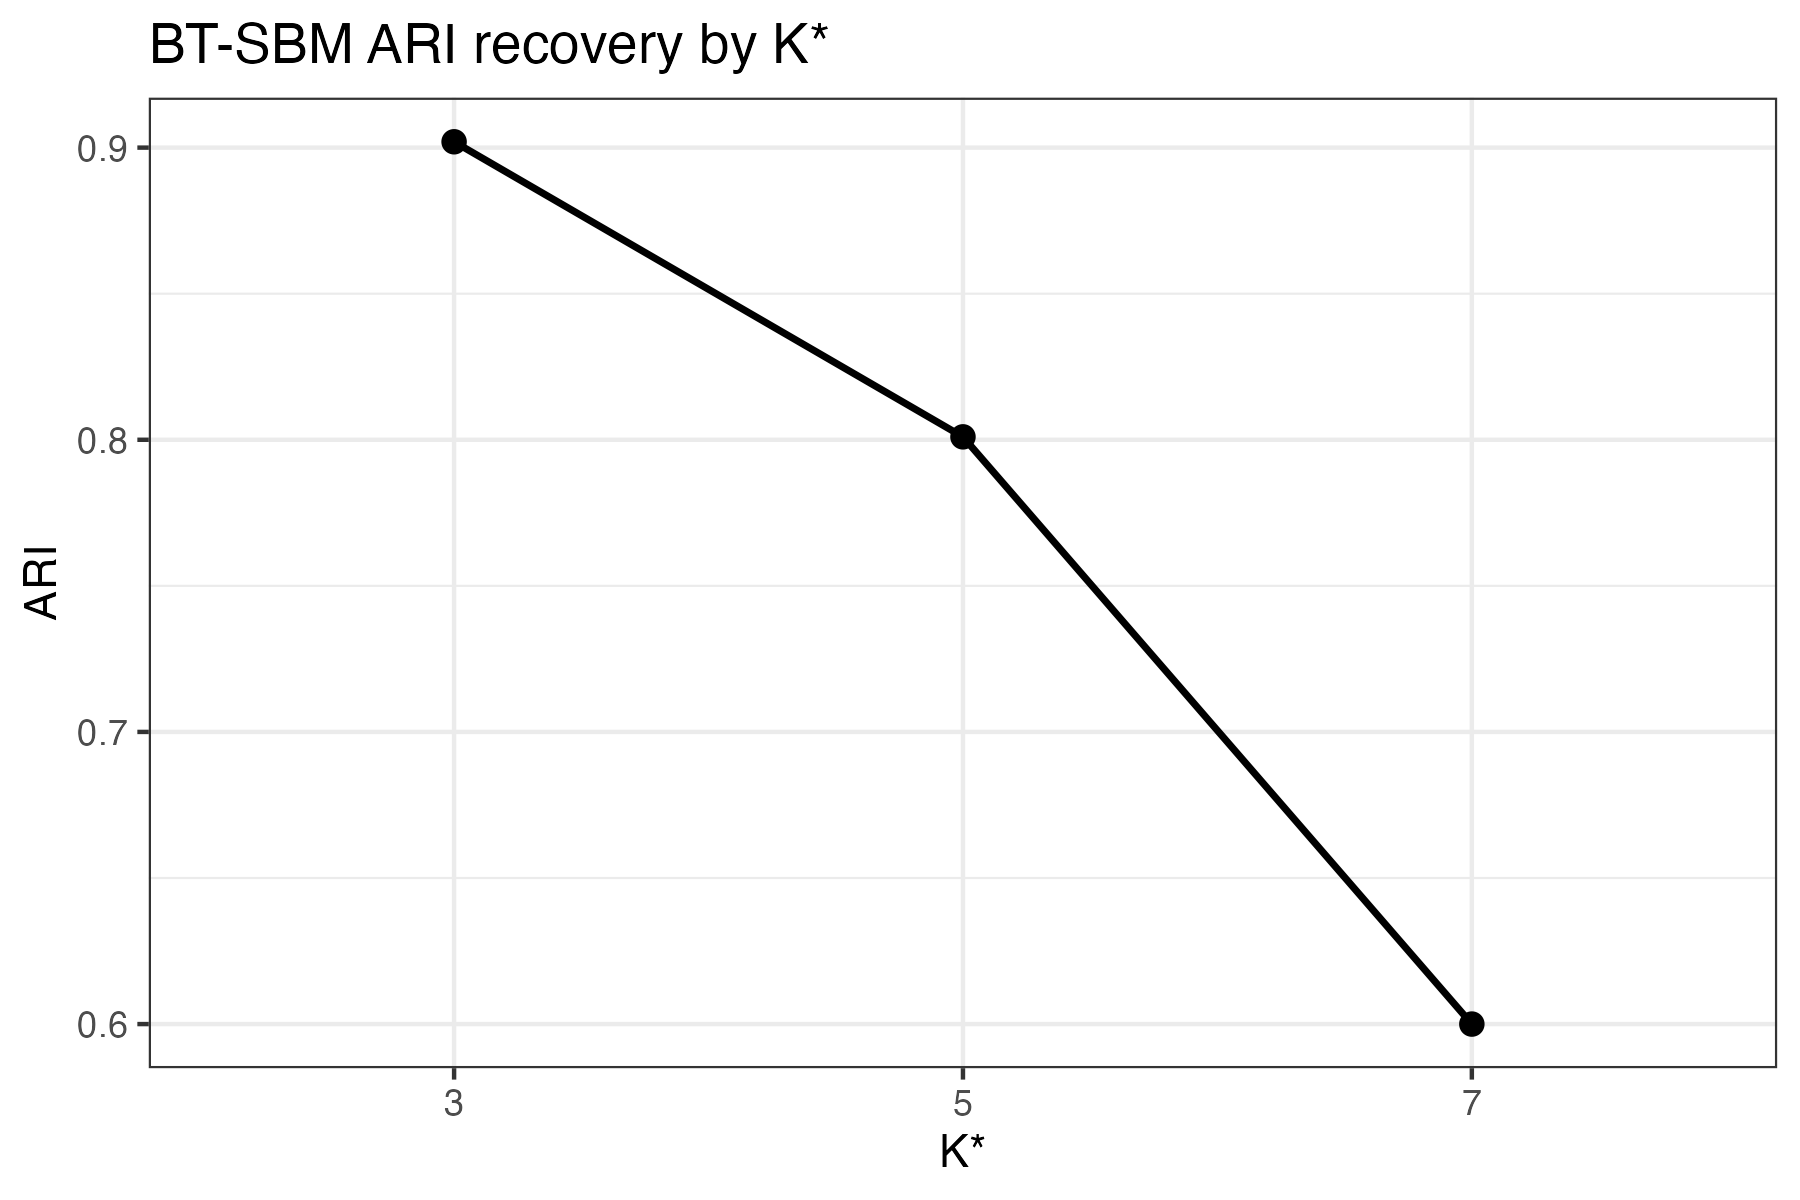
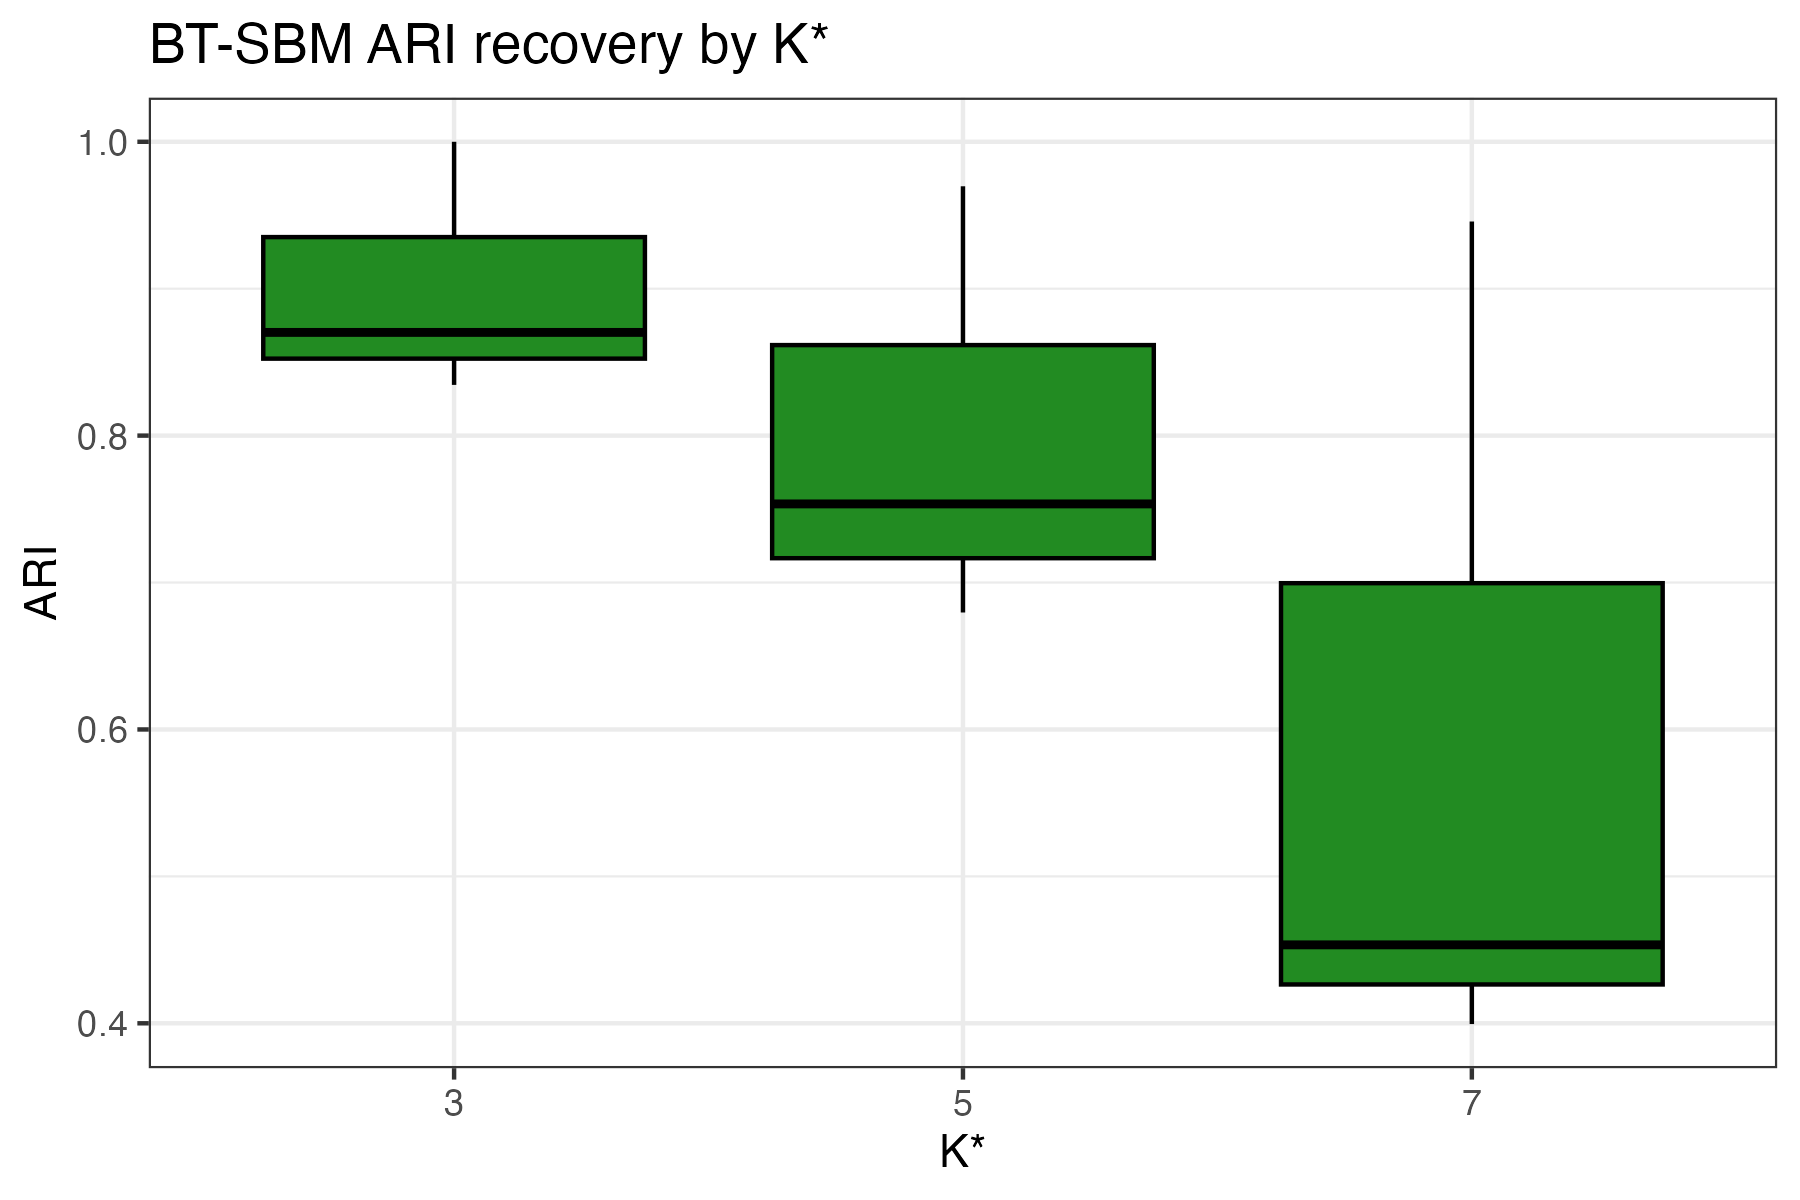
Move table outputs to tables/ and update README
Introduce a dedicated tables/ directory and update scripts/ documentation to use it. analyze_sim_study_results.R now creates tables/ (tab_dir), writes CSV and .tex outputs there, and updates status messages. ARI plotting was changed to use raw simulation rows (K_true in 3,5,7) and produce a boxplot (images/ARI_plot.png updated). README.md updated to point table links to tables/, adjusted appendix/table descriptions, and updated paper citation metadata (Annals of Applied Statistics, 2026; note added). Also add PNG previews under tables/table_rendering_images/.

diff --git a/README.md b/README.md
@@ -2,7 +2,7 @@
 
 **Lapo Santi, Nial Friel — University College Dublin**
 
-This repository contains all code to reproduce the figures, tables, and analyses in the paper *Bradley–Terry Stochastic Block Models* (Santi & Friel, AOAS 2025). Model fitting and MCMC are provided by the R package **[`BTSBM`](https://github.com/laposanti/BTSBM)**.
+This repository contains all code to reproduce the figures, tables, and analyses in the paper *Bradley–Terry Stochastic Block Models* (Santi & Friel, Annals of Applied Statistics, 2026). Model fitting and MCMC are provided by the R package **[`BTSBM`](https://github.com/laposanti/BTSBM)**.
 
 ---
 
@@ -44,7 +44,7 @@ network_feature_comparison.R        # validation helper — simulated vs real ne
 N_list_for_simulation.rds           # match-count designs used by simulation scripts
 data/                               # ATP match data 2000–2025/26
 raw_output_ext/                     # MCMC posterior draws (written by RUN_application.R)
-results/                            # summary CSVs and LaTeX tables
+results/                            # summary CSVs from simulation and model-comparison runs
 images/                             # all figures (PDF + PNG copies for GitHub preview)
 tables/                             # LaTeX tables (+ PNG previews in table_rendering_images/)
 AOAS2193_Santi_final_files/         # final paper source (LaTeX)
@@ -63,8 +63,8 @@ Every figure and table in the paper (and supplement) is linked below to the scri
 |---|---|---|---|
 | **Fig. 1** | Raw adjacency matrix ordered by ATP ranking | `single_season_analysis.R` | `images/exploratory_reorderdered_bw.pdf` |
 | **Fig. 2** | DAG + Algorithm 1 (Gibbs sampler) | TikZ / `algorithmic` in `AOAS2193_Santi_final_files/main.tex` | — |
-| **Table 1** | BT–SBM recovery by target K★, averaged across designs | `analyze_sim_study_results.R` | `results/table_btsbm_recovery_k357.tex` |
-| **Table 2** | Baseline comparison: BT, RCBTL (Pearce & Erosheva 2025), BT–SBM | `analyze_sim_study_results.R` | `results/table_rcbtl_baseline_one_run.tex` |
+| **Table 1** *(main text)* | BT–SBM recovery by target K★, averaged across designs | `analyze_sim_study_results.R` | `tables/table_btsbm_recovery_k357.tex` |
+| **Table 2** *(main text)* | Baseline comparison: BT, RCBTL (Pearce & Erosheva 2025), BT–SBM | `analyze_sim_study_results.R` | `tables/table_rcbtl_baseline_one_run.tex` |
 | **Table 3** | Posterior distribution of K for the 2017 ATP season | `single_season_analysis.R` | printed to console; draws from `raw_output_ext/MCMC_raw_output_ext.rds` |
 | **Fig. 3** | Reordered adjacency matrix (2017, K̂ = 3, VI point estimate) | `single_season_analysis.R` | `images/reordered_heatmap_point_estimatebw.pdf` |
 | **Fig. 4** | Posterior assignment probabilities p(xᵢ = k \| W), K = 4 | `single_season_analysis.R` | `images/plot_ass.pdf` |
@@ -78,8 +78,8 @@ Every figure and table in the paper (and supplement) is linked below to the scri
 | Paper element | Appendix | Script | Output |
 |---|---|---|---|
 | Prior-sensitivity plots (b = exp(ψ(a)) and b = 1) | App. B | `sensitivity_analysis.R` | `images/hyperprior_plots/prior_b_exp_psi_a.png`, `prior_b_one.png` |
-| BT–SBM recovery table (K★ = 3,5,7) | App. D | `analyze_sim_study_results.R` | `results/table_btsbm_recovery_k357.tex` |
-| RCBTL baseline comparison table (one-run) | App. D | `analyze_sim_study_results.R` | `results/table_rcbtl_baseline_one_run.tex` |
+| BT–SBM recovery table, extended (K★ = 3,5,7, with Pr(K=K★) and runtime) | App. D | hardcoded in `AOAS2193_Santi_final_files/Supplementary Material.tex` | — |
+| RCBTL baseline comparison table, extended (with Gelman–Rubin diagnostics) | App. D | hardcoded in `AOAS2193_Santi_final_files/Supplementary Material.tex` | — |
 | Baseline raw fit outputs | App. D | `RUN_SIMULATION_STUDY.R` | `results/rcbtl_baseline_design1_K3_seed123/` |
 | Credible-ball boundary partitions (lower/upper/horiz.) | App. E | `single_season_analysis.R` | `images/reordered_heatmap_v_ubbw.pdf`, `images/reordered_heatmap_v_lbbw.pdf`, `images/reordered_heatmap_horizbw.pdf` |
 | Season-by-season posterior K table | App. F | `Multiple_seasons_analysis.R` | `tables/post_numb_block_across_years_table1.tex` |
@@ -161,8 +161,8 @@ Rscript analyze_sim_study_results.R
 
 | Output | Paper element | Preview |
 |---|---|---|
-| `results/table_btsbm_recovery_k357.tex` | **Table 1** BT–SBM recovery by K★ | <a href="./tables/table_rendering_images/contingency_table.png"><img src="./tables/table_rendering_images/contingency_table.png" width="140" alt="Recovery table"></a> |
-| `results/table_rcbtl_baseline_one_run.tex` | **Table 2** baseline comparison | — |
+| `tables/table_btsbm_recovery_k357.tex` | **Table 1** *(main text)* BT–SBM recovery by K★ | <a href="./tables/table_rendering_images/table_preview_Sim3-7.png"><img src="./tables/table_rendering_images/table_preview_Sim3-7.png" width="140" alt="Recovery table"></a> |
+| `tables/table_rcbtl_baseline_one_run.tex` | **Table 2** *(main text)* baseline comparison | <a href="./tables/table_rendering_images/table_preview_RCBTL.png"><img src="./tables/table_rendering_images/table_preview_RCBTL.png" width="140" alt="RCBTL baseline table"></a> |
 | `images/ARI_plot.png` | **App. D** ARI/VI performance plot | <a href="./images/ARI_plot.png"><img src="./images/ARI_plot.png" width="140" alt="ARI plot"></a> |
 
 ### Step 4a — Appendix F: LOO/ELPD model comparison across all seasons
@@ -219,11 +219,12 @@ Runs the BT–SBM under `a ∈ {1, 2, 3, 4}` on a simulated dataset and plots VI
 ## How to cite
 
 ```bibtex
-@article{SantiFriel2025BTSBM,
+@article{SantiFriel2026BTSBM,
   title   = {Bradley--Terry Stochastic Block Models},
   author  = {Santi, Lapo and Friel, Nial},
   journal = {Annals of Applied Statistics},
-  year    = {2025}
+  year    = {2026},
+  note    = {DOI, volume, and page numbers yet to be received}
 }
 ```
 
